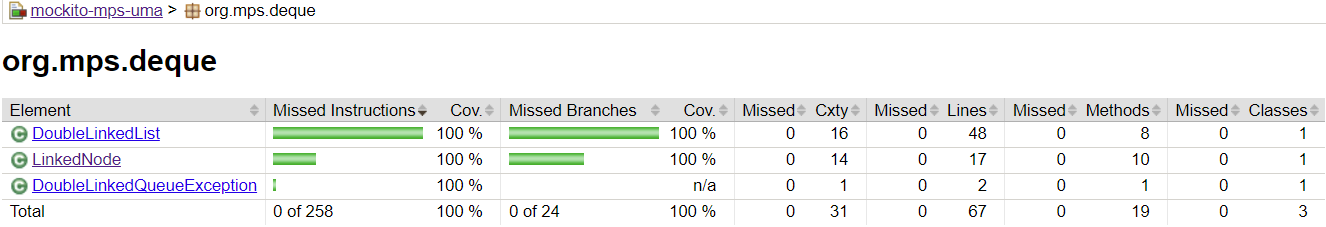
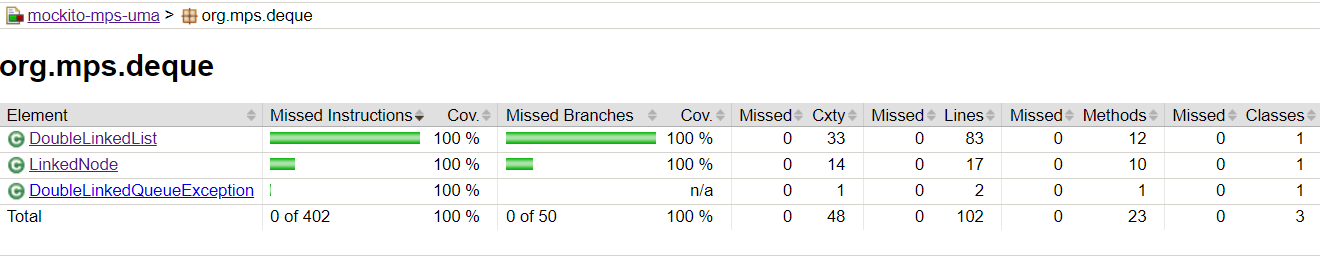
Last Commit

diff --git a/p2/src/main/java/org/mps/deque/DoubleLinkedList.java b/p2/src/main/java/org/mps/deque/DoubleLinkedList.java
@@ -1,6 +1,7 @@
 package org.mps.deque;
 
 import java.util.Comparator;
+import java.util.*;
 
 public class DoubleLinkedList<T> implements DoubleLinkedQueue<T> {
 
@@ -77,7 +78,6 @@ public class DoubleLinkedList<T> implements DoubleLinkedQueue<T> {
 
     @Override
     public T first() {
-        // TODO
         if(first == null){
             throw new DoubleLinkedQueueException("The deque is empty");
         }
@@ -92,14 +92,13 @@ public class DoubleLinkedList<T> implements DoubleLinkedQueue<T> {
 
     @Override
     public int size() {
-        // TODO
         return this.size;
     }
 
     @Override
     public boolean contains(T value){
         boolean found = false;
-        LinkedNode node = this.first;
+        LinkedNode<T> node = this.first;
 
         while(!found && node!=null){
             found = node.getItem() == value;
@@ -117,7 +116,7 @@ public class DoubleLinkedList<T> implements DoubleLinkedQueue<T> {
 
         else{
             boolean removed = false;
-            LinkedNode node = this.first.getNext();
+            LinkedNode<T> node = this.first.getNext();
 
                 while(!removed && node!=this.last){
                     if(node.getItem() == value){
@@ -133,13 +132,30 @@ public class DoubleLinkedList<T> implements DoubleLinkedQueue<T> {
 
     @Override
     public T get(int index) {
-        // TODO Auto-generated method stub
-        throw new UnsupportedOperationException("Unimplemented method 'get'");
+        if(index < 0 || index >= size) throw new DoubleLinkedQueueException("Index out of bounds");
+        LinkedNode<T> node = first;
+        for(int i = 0; i < index; i++){
+            node = node.getNext();
+        }
+        return node.getItem();
     }
 
     @Override
-    public void sort(Comparator<? super T> comparator) {
-        // TODO Auto-generated method stub
-        throw new UnsupportedOperationException("Unimplemented method 'sort'");
+    public void sort(Comparator<? super T> comparator) {        
+        List<T> list = new ArrayList<>();
+        LinkedNode<T> current = first;
+        while (current != null) {
+            list.add(current.getItem());
+            current = current.getNext();
+        }
+
+        Collections.sort(list, comparator);
+
+        LinkedNode<T> currentNew = first;
+        for (T t : list) {
+            currentNew.setItem(t);
+            currentNew = currentNew.getNext();
+        }
+        
     }
 }

diff --git a/p2/src/test/java/org/mps/deque/DoubleLinkedListTest.java b/p2/src/test/java/org/mps/deque/DoubleLinkedListTest.java
@@ -200,6 +200,33 @@ public class DoubleLinkedListTest {
             
             assertEquals(1, size);
         }
+
+        //Parte 2
+        @Test
+        @DisplayName("Testing gettting an element in a position")
+        void test_GetElement_ReturnValue(){
+            list.append(1);
+            list.append(2);
+            list.append(3);
+            
+            int value = list.get(2);
+            
+            assertEquals(3, value);
+        }
+
+        @ParameterizedTest
+        @DisplayName("Testing gettting an element in a position out of bounds")
+        @CsvSource({
+        "-1",
+        "3"
+        })
+        void test_GetElementOutOfBounds_ThrowsDoubleLinkedQueueException(int pos){
+            list.append(1);
+            list.append(2);
+            list.append(3);
+            
+            assertThrows(DoubleLinkedQueueException.class, () -> list.get(pos));
+        }
     }
 
     // PARTE 2 ------------------------------------------------------------
@@ -236,6 +263,20 @@ public class DoubleLinkedListTest {
 
         assertEquals(expectedValueInList, list.contains(value));
         assertEquals(expectedSize, list.size());
+    }
+
+    @Test
+    @DisplayName("Testing sort")
+    void test_sort_ReturnSortedList(){
+        list.append(3);
+        list.append(1);
+        list.append(2);
+        
+        list.sort((a, b) -> a - b);
+        
+        assertEquals(1, list.get(0));
+        assertEquals(2, list.get(1));
+        assertEquals(3, list.get(2));
     }
 
 }
